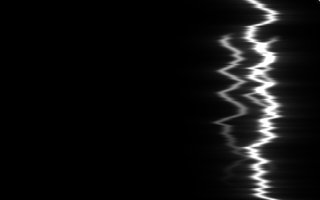
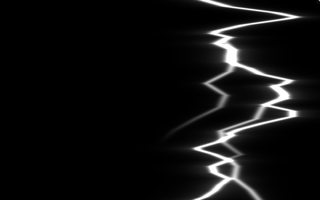
fix(ambient): rethink lightning, dial down ink, slow water, more nebula knobs
- lightning: angular piecewise-linear channel with branches forking off the
  main bolt and tapering — a real branching strike, not a smooth wiggle
- ink in water: translucent Beer-Lambert dye that keeps tendril structure
  instead of saturating to a solid white core
- water shimmer: much lower speed floor (crawls to near-still)
- nebula: swirl / star glow / dust-lane controls via the movement params

Refresh m54/m55 thumbnails; sw → matte-v10.

Changed region(s): [[0.5625, 0.0, 0.9688, 1.0], [0.5312, 0.63, 0.5625, 0.66]]

diff --git a/shader.js b/shader.js
@@ -647,50 +647,58 @@ fn ambVolFog(uv: vec2f) -> f32 {
   let v = 1.0 - exp(-raw * 1.6);
   return clamp(v, 0.0, 1.0);
 }
-fn boltDx(uv: vec2f, xc: f32, sseed: f32, amp: f32, jag: f32) -> f32 {
-  // horizontal distance to a jagged vertical channel: a coarse zig-zag plus a finer
-  // kink octave so the channel has crisp, organic detail (not a smooth wiggle).
-  let coarse = (fbm(vec2f(uv.y * jag + sseed, sseed)) - 0.5) * 2.0;
-  let fine = (fbm(vec2f(uv.y * jag * 3.0 + sseed, sseed + 1.0)) - 0.5) * 0.55;
-  let pathX = xc + (coarse + fine) * amp;
-  return abs(uv.x - pathX);
+fn lpath(y: f32, seed: f32, segs: f32) -> f32 {
+  // piecewise-LINEAR 1D noise → sharp angular kinks (real bolts zig-zag, they don't
+  // wiggle smoothly). Returns ~-1..1.
+  let yy = y * segs + seed * 7.0;
+  let i = floor(yy); let f = fract(yy);
+  let a = hash21(vec2f(i, seed)) - 0.5;
+  let b = hash21(vec2f(i + 1.0, seed)) - 0.5;
+  return mix(a, b, f) * 2.0;
+}
+fn boltX(y: f32, xc: f32, seed: f32, amp: f32, segs: f32) -> f32 {
+  // angular channel: coarse zig-zag + a finer kink octave.
+  return xc + (lpath(y, seed, segs) + lpath(y, seed + 3.0, segs * 2.7) * 0.35) * amp;
 }
 fn ambLightning(uv: vec2f) -> f32 {
-  // Discrete strikes. The loop is split into strike slots; in each, a bolt's whole
-  // channel lights at once in a brilliant MAIN return stroke, followed by a couple
-  // of fainter return strokes (distinct flashes, not a strobe), then darkness until
-  // the next strike. The channel shape is fixed per strike (decoupled from the
-  // animated seed) so it does NOT drift sideways.
-  //   ambSpeed = strikes per loop   ambSize = jag amplitude   ambDetail = jaggedness
-  //   ambCount = forked branches    ambSoft = glow width
+  // Discrete strikes drawn as an ANGULAR channel (piecewise-linear, sharp kinks)
+  // running top→bottom, with branches that fork off the main channel and taper out.
+  // Each slot: the whole tree lights in a main return stroke + two fainter returns,
+  // then darkness. Shape is fixed per strike (no sideways drift).
+  //   ambSpeed = strikes per loop   ambSize = jag amplitude   ambDetail = segments
+  //   ambCount = branches           ambSoft = glow width
   let strikes = floor(mix(1.0, 5.0, p.ambSpeed) + 0.5);
   let tl = fract(p.t);
   let slot = floor(tl * strikes);
-  let local = fract(tl * strikes);                         // 0..1 within this strike
-  // brightness: main stroke + two fainter return strokes, each a quick gaussian
-  // flash, then dark — distinct strokes the way real lightning flickers.
+  let local = fract(tl * strikes);
   let bright = exp(-pow((local - 0.02) / 0.025, 2.0))
              + exp(-pow((local - 0.11) / 0.03, 2.0)) * 0.7
              + exp(-pow((local - 0.20) / 0.04, 2.0)) * 0.45;
   if (bright < 0.004) { return 0.0; }                      // dark gap between strikes
-  let sseed = slot * 13.7 + 2.0;                           // stable per strike
-  let xc = 0.5 + (hash21(vec2f(slot + 1.0, 3.7)) - 0.5) * 0.7;
-  let amp = mix(0.04, 0.22, p.ambSize);
-  let jag = mix(5.0, 18.0, p.ambDetail);
-  let glowW = mix(10.0, 30.0, 1.0 - p.ambSoft);            // smaller soft = wider glow
-  let dx = boltDx(uv, xc, sseed, amp, jag);
-  var v = exp(-dx * dx * 3500.0) + exp(-dx * glowW) * 0.3; // whole channel lights at once
-  // forked branches: each splits off at a random height and runs downward, fading.
-  let nb = u32(mix(0.0, 3.0, p.ambCount) + 0.5);
-  for (var i = 0u; i < 3u; i = i + 1u) {
+  let seed = slot * 4.0 + 1.0;
+  let xc = 0.5 + (hash21(vec2f(slot + 1.0, 3.7)) - 0.5) * 0.55;
+  let amp = mix(0.05, 0.26, p.ambSize);
+  let segs = mix(6.0, 16.0, p.ambDetail);
+  let glowW = mix(12.0, 34.0, 1.0 - p.ambSoft);
+  // main channel — thin bright core (sharper toward the bottom) + soft glow.
+  let mdx = abs(uv.x - boltX(uv.y, xc, seed, amp, segs));
+  var v = exp(-mdx * mdx * mix(2600.0, 6500.0, uv.y)) + exp(-mdx * glowW) * 0.28;
+  // branches: each starts ON the main channel at a random height, then diverges
+  // diagonally with its own zig-zag and tapers out over a short run.
+  let nb = u32(mix(1.0, 4.0, p.ambCount) + 0.5);
+  for (var i = 0u; i < 4u; i = i + 1u) {
     if (i >= nb) { break; }
     let fi = f32(i) + 1.0;
-    let by = 0.15 + 0.6 * hash21(vec2f(slot * 3.0 + fi, sseed));   // branch point height
+    let by = 0.1 + 0.7 * hash21(vec2f(slot * 5.0 + fi, seed));
     if (uv.y > by) {
-      let bxc = xc + (hash21(vec2f(fi, slot + 1.0)) - 0.5) * 0.28;
-      let bdx = boltDx(uv, bxc, sseed + fi * 5.0, amp * 0.6, jag * 1.3);
-      let bfade = smoothstep(by, by + 0.05, uv.y) * smoothstep(1.0, by + 0.1, uv.y);
-      v = v + (exp(-bdx * bdx * 4500.0) + exp(-bdx * glowW * 1.3) * 0.2) * bfade * 0.7;
+      let bx0 = boltX(by, xc, seed, amp, segs);             // attach to the main channel
+      let dirSign = sign(hash21(vec2f(fi, slot + 2.0)) - 0.5);
+      let slope = 0.25 + 0.35 * hash21(vec2f(fi, 9.0));
+      let dy = uv.y - by;
+      let bx = bx0 + dirSign * dy * slope + lpath(uv.y, seed + fi * 11.0, segs * 1.4) * amp * 0.5;
+      let bdx = abs(uv.x - bx);
+      let bfade = smoothstep(by, by + 0.03, uv.y) * (1.0 - smoothstep(by + 0.18, by + 0.55, uv.y));
+      v = v + (exp(-bdx * bdx * 6500.0) + exp(-bdx * glowW * 1.4) * 0.18) * bfade * 0.6;
     }
   }
   return clamp(v * bright, 0.0, 1.0);
@@ -721,11 +729,12 @@ fn ambInk(uv: vec2f) -> f32 {
   let diag = 0.5 * sqrt(p.canvasAspect * p.canvasAspect + 1.0);
   let r = length(dd) / diag;
   let frontR = mix(0.03, 1.3, pow(grow, 0.55));            // tiny drop → full cloud
-  let conc = 1.0 - smoothstep(frontR * 0.3, frontR, r);    // dense centre, fading edge
-  ink = ink * conc + conc * 0.35;
-  let cov = mix(0.55, 0.24, p.ambCount);
-  let soft = mix(0.05, 0.4, p.ambSoft);
-  var v = smoothstep(cov, cov + soft, ink);
+  let conc = 1.0 - smoothstep(frontR * mix(0.05, 0.4, p.ambSoft), frontR, r);   // dense → dispersed
+  // translucent dye: tendril structure modulated by concentration, with a soft
+  // Beer-Lambert rolloff so the dense centre stays a deep tone with visible swirls
+  // instead of blowing out to a flat white blob.
+  let dye = ink * conc * mix(1.0, 2.3, p.ambCount);
+  let v = 1.0 - exp(-dye * 1.25);
   return clamp(v, 0.0, 1.0);
 }
 fn ambSunBokeh(uv: vec2f) -> f32 {
@@ -780,7 +789,7 @@ fn ambWaterShimmer(uv: vec2f) -> f32 {
   // Sunlit water surface: interfering travelling wavefronts sharpened into caustic
   // ridges that shimmer and flow. Smooth gradients make a lovely displacement map.
   //   ambSize = scale   ambSoft = contrast   ambSpeed = speed   ambDetail = glints
-  let tt = p.t * 6.2831853 * (0.03 + p.ambSpeed * 1.4);     // can crawl to near-still
+  let tt = p.t * 6.2831853 * (0.006 + p.ambSpeed * 0.6);    // crawls to near-still at low speed
   var q = uv; q.x = q.x * p.canvasAspect;
   let sc = mix(3.0, 12.0, p.ambSize);
   var w = 0.0;
@@ -852,23 +861,26 @@ fn ambInkPaper(uv: vec2f) -> f32 {
 fn ambNebula(uv: vec2f) -> f32 {
   // Deep-space nebula + starfield: slow domain-warped cosmic dust with bright cores
   // and dark lanes, overlaid with twinkling stars. Lovely with a colour LUT.
-  //   ambCount = nebula density   ambSize = scale   ambSoft = contrast (dust lanes)
+  //   ambCount = nebula density   ambSize = scale   ambSoft = gas contrast
   //   ambSpeed = drift   ambDetail = star density
+  //   turbulence = swirl   flow = star glow/size   undulate = dust-lane depth
   let tt = p.t * 6.2831853 * (0.04 + p.ambSpeed * 0.2);        // very slow
   var q = uv; q.x = q.x * p.canvasAspect;
   let sc = mix(1.4, 4.0, p.ambSize);
-  // iterated warp for billowing gas clouds.
+  // iterated warp for billowing gas clouds; turbulence adds curl-swirl wispiness.
   let w1 = vec2f(fbm(q * sc * 0.5 + vec2f(0.0, tt * 0.1)),
                  fbm(q * sc * 0.5 + vec2f(5.0, 0.0 - tt * 0.08))) - vec2f(0.5);
-  let w2 = vec2f(fbm(q * sc + w1 * 1.6), fbm(q * sc + w1 * 1.6 + 7.0)) - vec2f(0.5);
+  let swirl = vec2f(-w1.y, w1.x) * p.turbulence * 2.0;
+  let w2 = vec2f(fbm(q * sc + w1 * 1.6 + swirl), fbm(q * sc + w1 * 1.6 + swirl + 7.0)) - vec2f(0.5);
   var neb = fbm(q * sc + w2 * 2.0);
   // dark dust lanes: subtract a sharper ridged noise so the gas is threaded with
-  // dark filaments instead of a uniform glow.
+  // dark filaments instead of a uniform glow (undulate sets how dark/deep).
   let lane = pow(clamp(1.0 - abs(2.0 * fbm(q * sc * 1.7 + w2) - 1.0), 0.0, 1.0), 2.0);
-  neb = neb - lane * 0.28;
+  neb = neb - lane * mix(0.12, 0.55, p.undulate);
   neb = pow(clamp(neb, 0.0, 1.0), mix(1.2, 2.8, p.ambSoft)) * mix(0.55, 1.4, p.ambCount);
   neb = neb + pow(clamp(neb, 0.0, 1.0), 2.0) * 0.45;          // glowing cores (bloom)
   // starfield: one candidate star per cell, twinkling; a few bright, many faint.
+  // flow grows the stars from pin-pricks to glowing points.
   let cell = mix(45.0, 130.0, p.ambDetail);
   let g = q * cell;
   let id = floor(g);
@@ -879,7 +891,8 @@ fn ambNebula(uv: vec2f) -> f32 {
     let sd = length(fract(g) - center);
     let bright = smoothstep(0.78, 1.0, rnd);                  // rarer = brighter
     let tw = 0.5 + 0.5 * sin(tt * 40.0 + rnd * 50.0);
-    star = (exp(-sd * sd * 260.0) + exp(-sd * 9.0) * 0.25) * (0.5 + 0.9 * bright) * tw;
+    let glow = mix(0.6, 1.8, p.flow);
+    star = (exp(-sd * sd * mix(360.0, 150.0, p.flow)) + exp(-sd * 9.0) * 0.25 * glow) * (0.5 + 0.9 * bright) * tw;
   }
   return clamp(neb + star, 0.0, 1.0);
 }

diff --git a/ui.js b/ui.js
@@ -159,7 +159,7 @@
   // relevance of the global groups per mode
   const isTrans = m => (m<=32 && m!==31) || m===48 || m===49 || m===53; // reveal/movement/advanced apply
   const REL = {
-    reveal: m=>isTrans(m), movement: m=>isTrans(m)||m===50||m===51||m===55||m===56||m===58, advanced: m=>isTrans(m),
+    reveal: m=>isTrans(m), movement: m=>isTrans(m)||m===50||m===51||m===55||m===56||m===58||m===60, advanced: m=>isTrans(m),
     points: m=>(m<=32&&m!==31)||m===34, dir: m=>[33,35,36,39,40,41,42,43,44,45,46,47,50].includes(m), vign: ()=>true,
   };
 
@@ -595,7 +595,8 @@
         : m===51 ? {turbulence:'curl',flow:'rise / reach',undulate:'sway',animate:'variation'}
         : m===55 ? {turbulence:'swirl',flow:'flow',undulate:'sway',animate:'variation'}
         : m===58 ? {turbulence:'flow / curl',flow:'flow',undulate:'sway',animate:'variation'}
-        : m===56 ? {turbulence:'dapple / foliage',flow:'flow',undulate:'sway',animate:'variation'} : null;
+        : m===56 ? {turbulence:'dapple / foliage',flow:'flow',undulate:'sway',animate:'variation'}
+        : m===60 ? {turbulence:'swirl',flow:'star glow',undulate:'dust lanes',animate:'variation'} : null;
       paramsEl.appendChild(section('Movement',['turbulence','flow','undulate','animate'],!REL.movement(m),moveLabels));
       { const dk = DIRK[m] || (REL.dir(m) ? ['driftAngle','driftAmount','sunX','sunY','streakMove'] : []);
         const dirLabels = m===50 ? {driftAngle:'comes from',driftAmount:'fog ↔ plume'}

diff --git a/sw.js b/sw.js
@@ -9,7 +9,7 @@
 //     by design (too large to bundle; SAM is an optional online enhancement)
 //
 // Bump VERSION whenever the precache list changes to evict the old cache.
-const VERSION = 'matte-v9';
+const VERSION = 'matte-v10';
 
 const PRECACHE = [
   './', './index.html', './manifest.json', './favicon.svg', './icon-192.png', './icon-512.png',